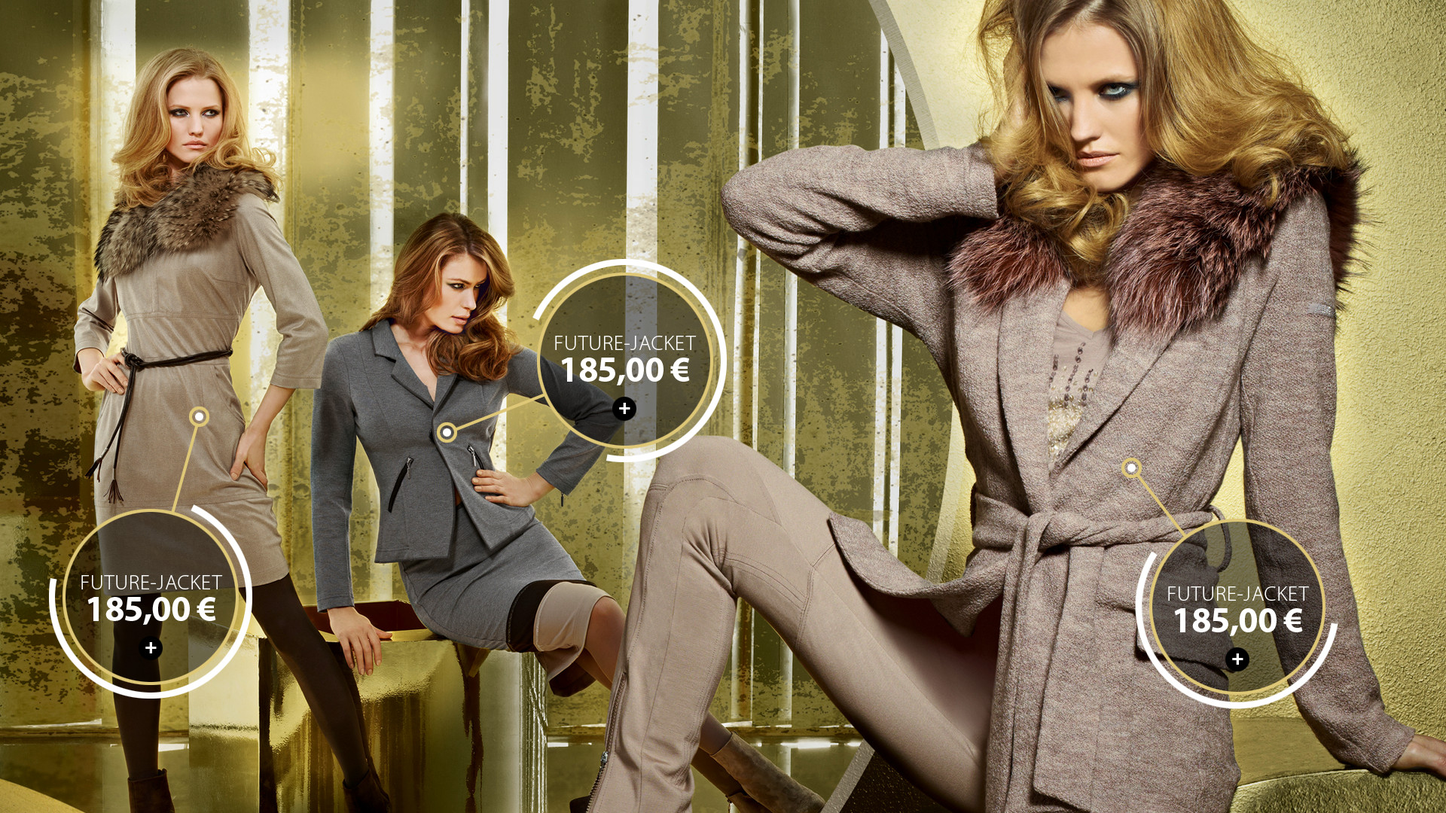
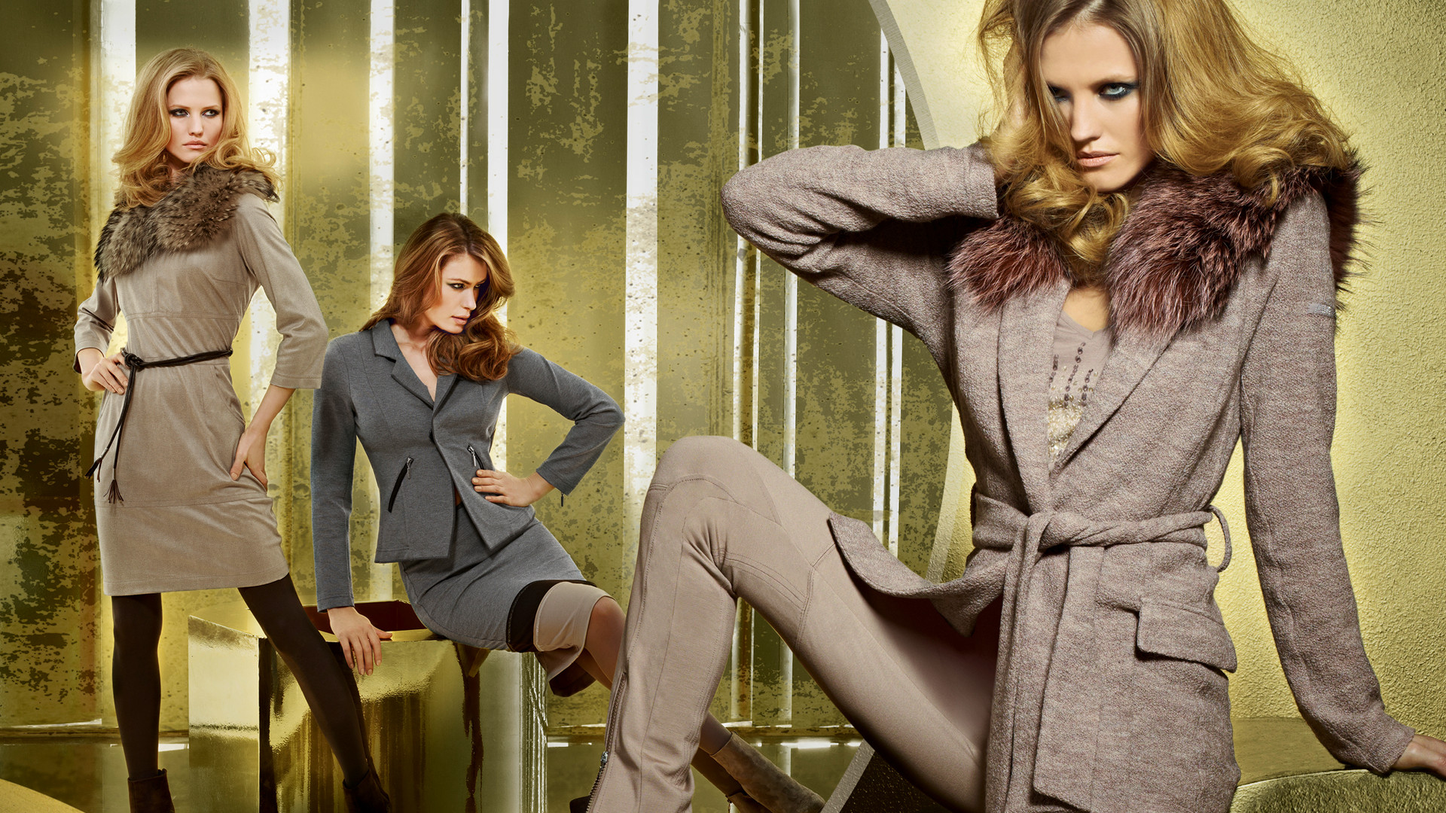
Draw line between point and canvas price

diff --git a/assets/js/main.js b/assets/js/main.js
@@ -1,6 +1,6 @@
 (function() {
   (function($, window) {
-    var Canvas;
+    var LineTo, Loader;
     Reveal.initialize({
       width: "100%",
       height: "100%",
@@ -37,8 +37,8 @@
         }
       ]
     });
-    Canvas = (function() {
-      function Canvas(opts) {
+    Loader = (function() {
+      function Loader(opts) {
         var container,
           _this = this;
         this._options = $.extend({
@@ -55,13 +55,13 @@
         this.ctx.beginPath();
         this.ctx.strokeStyle = this._options.strokeStyle;
         this.ctx.lineCap = this._options.lineCap;
+        this.ctx.lineWidth = this._options.lineWidth;
         this.ctx.closePath();
         this.ctx.fill();
-        this.ctx.lineWidth = this._options.lineWidth;
         this.imageData = this.ctx.getImageData(0, 0, container.width, container.height);
         this.animation = new Fx({
           duration: 3000,
-          transition: Fx.Transitions.Expo.easeIn,
+          transition: Fx.Transitions.Quint.easeInOut,
           link: "cancel",
           onStep: function(step) {
             return _this.draw(step / 100);
@@ -75,7 +75,7 @@
         };
       }
 
-      Canvas.prototype.draw = function(current) {
+      Loader.prototype.draw = function(current) {
         $(this._options.el).data("progress", current * 100);
         this.ctx.putImageData(this.imageData, 0, 0);
         this.ctx.beginPath();
@@ -83,48 +83,93 @@
         return this.ctx.stroke();
       };
 
-      Canvas.prototype.start = function(start, end) {
+      Loader.prototype.start = function(start, end) {
         return this.animation.start(start, end);
       };
 
-      Canvas.prototype.cancel = function() {
+      Loader.prototype.cancel = function() {
         return this.animation.cancel();
       };
 
-      return Canvas;
+      return Loader;
 
     })();
-    return window.Canvas = Canvas;
+    LineTo = (function() {
+      function LineTo(opts) {
+        var container, containerOffset, lineTo, targetOffset;
+        this._options = $.extend({
+          el: $("#canvas"),
+          strokeStyle: "#FFFFFF",
+          lineCap: "square",
+          lineWidth: 8.0,
+          targetId: "point"
+        }, opts);
+        container = this._options.el;
+        containerOffset = $(container).offset();
+        targetOffset = $("#" + this._options.targetId).offset();
+        lineTo = {
+          top: targetOffset.top - containerOffset.top,
+          left: targetOffset.left - containerOffset.left
+        };
+        this.ctx = container.getContext("2d");
+        this.ctx.beginPath();
+        this.ctx.strokeStyle = this._options.strokeStyle;
+        this.ctx.lineCap = this._options.lineCap;
+        this.ctx.lineWidth = this._options.lineWidth;
+        this.ctx.moveTo(lineTo.left + 15, lineTo.top + 30);
+        this.ctx.lineTo(containerOffset.left, containerOffset.top);
+        this.ctx.fill();
+      }
+
+      LineTo.prototype.draw = function() {
+        return this.ctx.stroke();
+      };
+
+      return LineTo;
+
+    })();
+    window.Loader = Loader;
+    return window.LineTo = LineTo;
   })(jQuery, window);
 
   $(document).ready(function() {
-    var loaders;
+    var linesTo, loaders;
+    linesTo = $("canvas[data-id=line-to]");
+    $.each(linesTo, function(i, el) {
+      var lineTo, lineToEl;
+      lineToEl = $(el);
+      lineTo = new LineTo({
+        el: el,
+        targetId: lineToEl.data("target"),
+        strokeStyle: "rgb(222,199,118)",
+        lineWidth: 4
+      });
+      return lineTo.draw();
+    });
     loaders = $("canvas[data-id=loader]");
     return $.each(loaders, function(i, el) {
-      var canvas, container, loader;
-      loader = $(el);
-      canvas = new Canvas({
+      var container, loader, loaderEl;
+      loaderEl = $(el);
+      loader = new Loader({
         el: el,
-        startAngle: loader.data("angle-start")
+        startAngle: loaderEl.data("angle-start")
       });
-      container = loader.closest("*[data-toggle=pointer]");
+      container = loaderEl.closest("*[data-toggle=pointer]");
       return container.hover(function(evt) {
-        var progress, target;
-        canvas.cancel();
-        target = $(evt.currentTarget);
-        if (!target.hasClass("active")) {
-          target.addClass("active");
-          progress = target.find("canvas").data("progress");
-          return canvas.start(progress, 90);
+        var progress;
+        loader.cancel();
+        if (!container.hasClass("active")) {
+          container.addClass("active");
+          progress = container.find("canvas[data-id=loader]").data("progress");
+          return loader.start(progress, 90);
         }
       }, function(evt) {
-        var progress, target;
-        canvas.cancel();
-        target = $(evt.currentTarget);
-        if (target.hasClass("active")) {
-          target.removeClass("active");
-          progress = target.find("canvas").data("progress");
-          return canvas.start(progress, 0);
+        var progress;
+        loader.cancel();
+        if (container.hasClass("active")) {
+          container.removeClass("active");
+          progress = container.find("canvas[data-id=loader]").data("progress");
+          return loader.start(progress, 0);
         }
       });
     });

diff --git a/assets/css/style.css b/assets/css/style.css
@@ -18,9 +18,10 @@ body #helper {position: fixed; top: 0; right: 0; z-index: 40; opacity: 0.6;}
 body #helpScreen {position: absolute; top: 0; right: 0; bottom: 0; left: 0; width: 100%; height: 100%;}
 body #helpScreen img {width: 100%;}
 
-body .slide-content {position: absolute; width: 100%; height: 100%; top: 0; right: 0; bottom: 0; left: 0; color: white;}
-body .slide-content .price {width: 200px; height: 200px; display: block; background-color: rgba(0,0,0,0.5); position: absolute;
+body .slide-content {position: fixed; width: 100%; height: 100%; top: 0; right: 0; bottom: 0; left: 0; color: white; z-index: 49;}
+body .slide-content .price {width: 200px; height: 200px; display: block; background-color: rgba(0,0,0,0.5); position: absolute; opacity: 0.5;
   border-radius: 200px; -moz-border-radius: 200px; -webkit-border-radius: 200px; border: 4px solid rgb(222,199,118);}
+body .slide-content .price.active {opacity: 1;}
 body .slide-content .price canvas {position: absolute; top: -25px; left: -25px;}
 body .slide-content .price.left {left: 7%; top: 121px;}
 body .slide-content .price.middle {left: 38%; top: -155px;}
@@ -29,3 +30,10 @@ body .slide-content .price .price-content {position: absolute; width: 100%; heig
 body .slide-content .price .price-content .name {font-size: 23px; text-transform: uppercase; margin: 65px 0 0;}
 body .slide-content .price .price-content .amount {font-size: 40px; font-weight: bold; margin: 0;}
 body .slide-content .price .price-content .more {font-size: 25px; width: 30px; background-color: black; height: 30px; border-radius: 30px; margin: 0 auto;}
+body .slide-content .price .point {width: 15px; height: 15px; padding: 4px; position: absolute; top: -150px; left: 100px;
+  border-radius: 30px; -moz-border-radius: 30px; -webkit-border-radius: 30px; border: 4px solid rgb(222,199,118);}
+body .slide-content .price .point .dot {width: 15px; height: 15px; background-color: white;
+  border-radius: 15px; -moz-border-radius: 15px; -webkit-border-radius: 15px;}
+
+body .reveal .slides > section.present,
+body .reveal .slides > section > section.present[data-background] {z-index: 50;}

diff --git a/index.html b/index.html
@@ -20,7 +20,9 @@
         <section data-background="assets/images/airfield-slide1.jpg">
           <div class="slide-content">
             <div class="price left" data-toggle="pointer">
-              <canvas width="250" height="250" data-id="loader" data-angle-start="60" data-progress="0"></canvas>
+              <div id="s1p1" class="point"><div class="dot"></div></div>
+              <canvas width="208" height="208" style="top: -208px; left:0;" data-id="line-to" data-target="s1p1"></canvas>
+              <canvas width="250" height="250" data-id="loader" data-angle-start="70" data-progress="0"></canvas>
               <div class="price-content">
                 <p class="name">Future-jacket</p>
                 <p class="amount">199,00 €</p>
